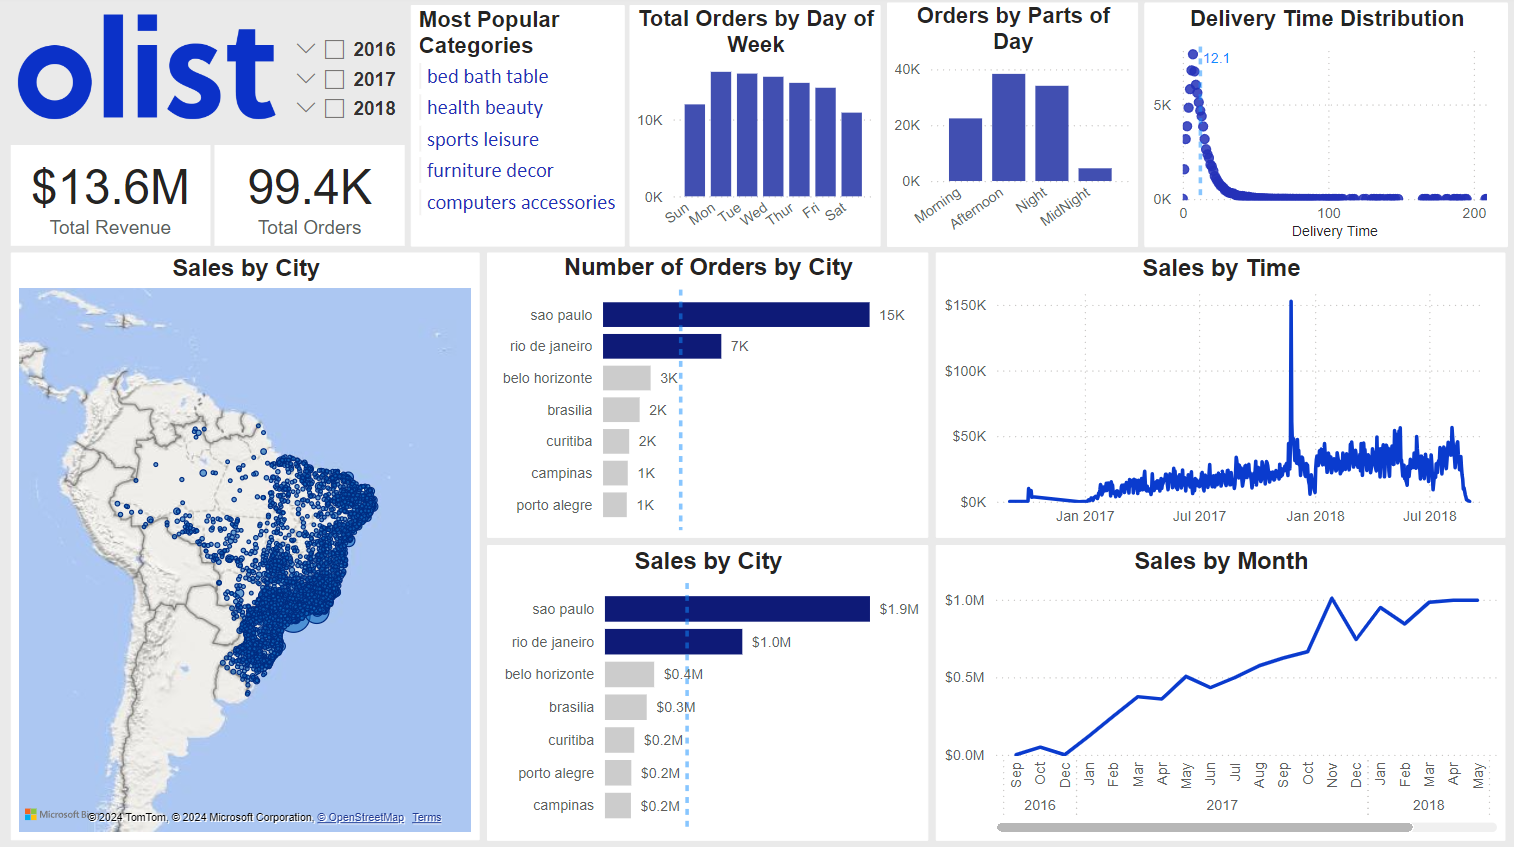
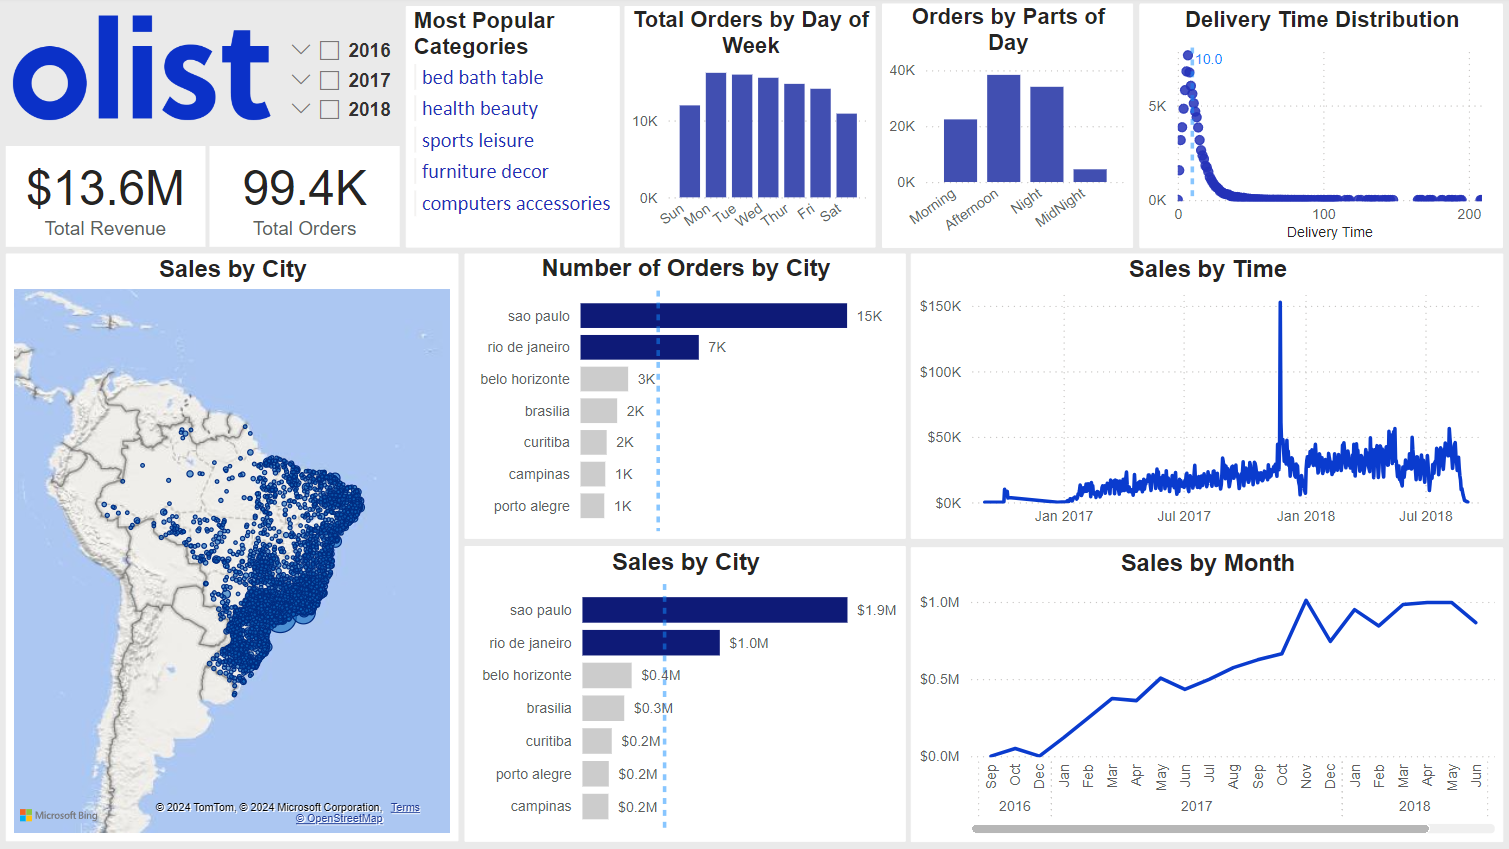
visuals update

diff --git a/README.md b/README.md
@@ -21,7 +21,7 @@ In terms of the number of purchases, bed, bath, table, health and beauty, sports
 Most of the revenue comes from the southeast and south regions of Brazil, with the state of São Paulo contributing over 40% of the revenue and orders.
 ![Geo](visuals/geospatial.png)
 ### 5. Delivery Time
-The average delivery time is about 12 days, with a standard deviation of about 10 days. There are quite a few delayed packages, with delivery times ranging from 100 to 200 days.
+The median delivery time is about 10 days, with quite a few delayed packages, with delivery times ranging from 100 to 200 days.
 
 # Recommendations and Next Steps
 
